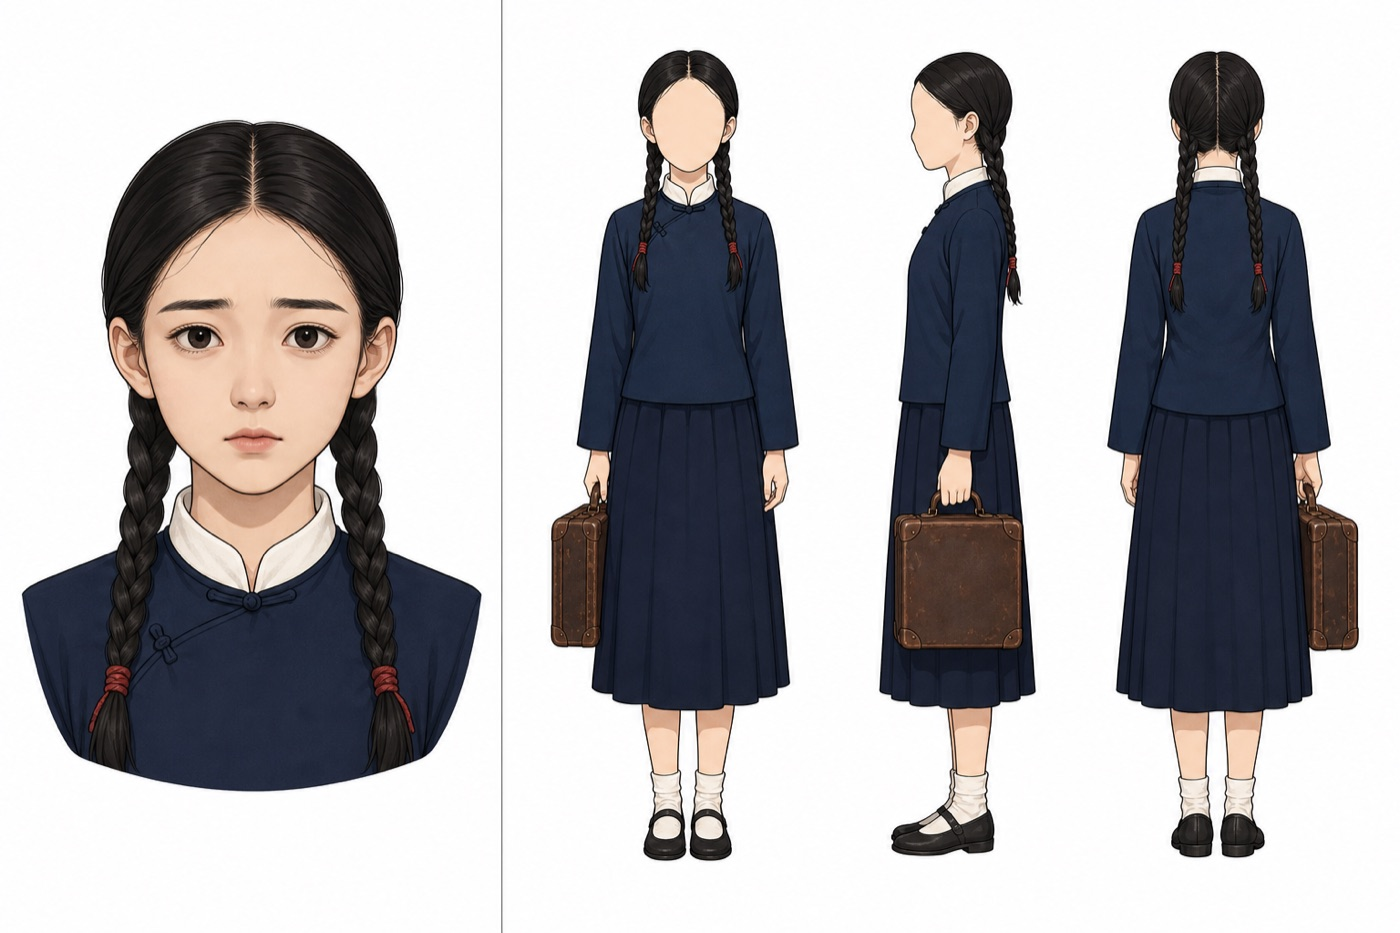
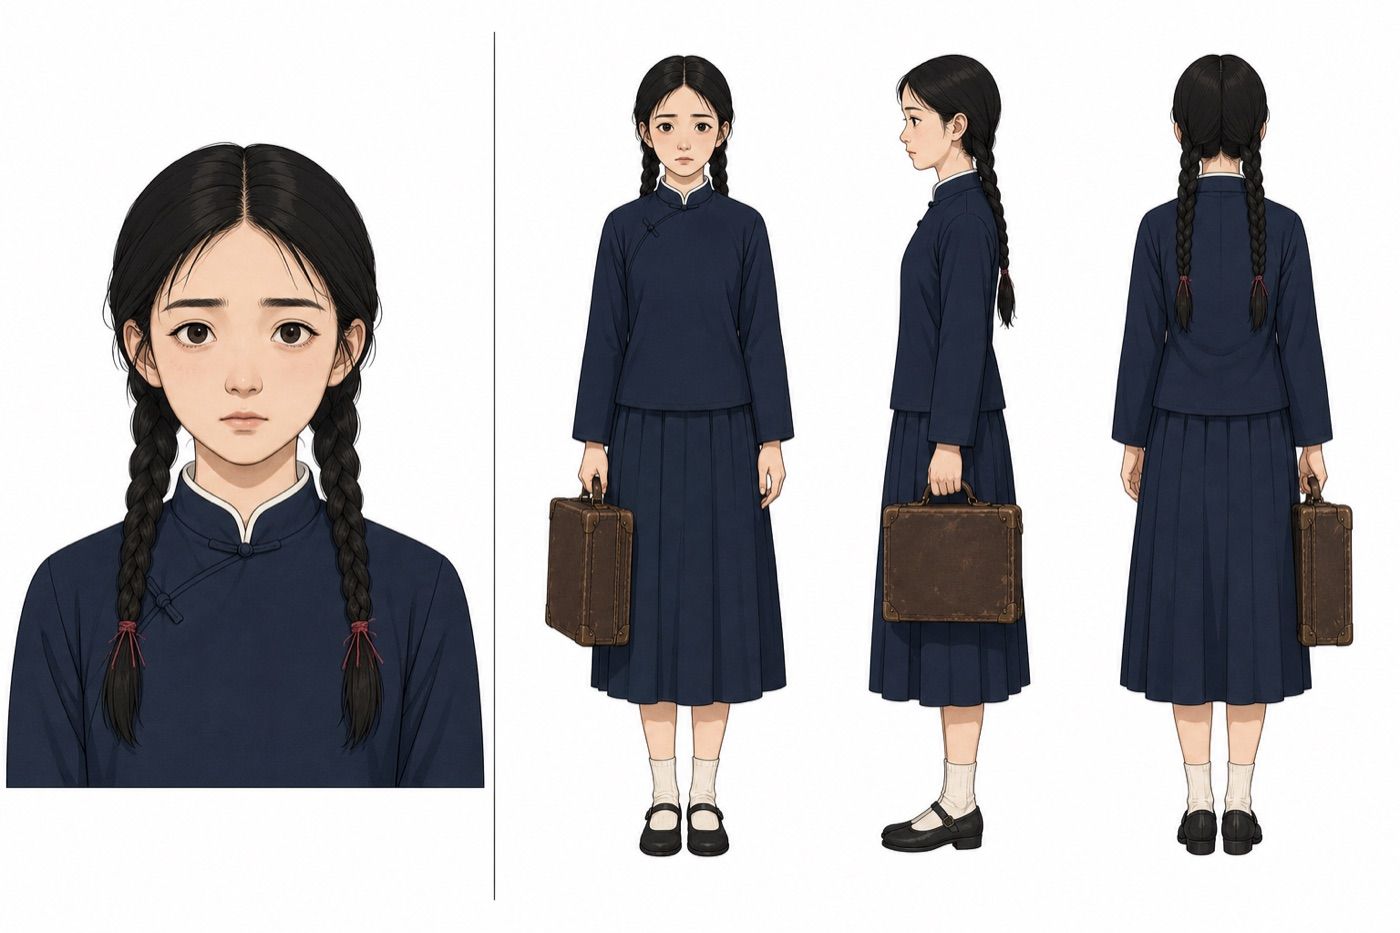
fix(novel-characters): 三视图画脸，半身像肩膀完整
两处调整：

1. 右栏三视图不再留空脸。改成要求面部与左栏半身像一致——同样的五官、
   发型、表情。左栏当面部设计基准，右栏照着画。这样更接近标准设定表，
   也不用担心留空的遵从度问题。
   新风险是「一张图里两个长相」，提示词里显式要求两边一致。

2. 左栏半身像原来两侧肩膀被裁掉、底边是圆角渐隐，看着别扭。提示词里
   显式禁掉：BOTH SHOULDERS ARE FULLY VISIBLE、底边齐平直切。这是模型
   的默认行为，不写死就一定会出。

实测重生成确认：肩膀完整、底边直切、三视图有脸且与半身像同一个人。
自测 130 → 132 项，两条新要求都有断言钉住。

diff --git a/skills/novel-characters/references/profile-pass.md b/skills/novel-characters/references/profile-pass.md
@@ -31,16 +31,16 @@
 
    | 栏 | 宽度 | 内容 |
    | --- | --- | --- |
-   | **左栏** | **约 38%** | **一张半身像**：头肩，正面，居中，像证件照。**脸画全、画细** |
-   | **右栏** | **约 62%** | **全身三视图**：正视 / 侧视 / 背视并排，共用一条地平线，三视身高比例和服装细节完全一致，中性站姿、双臂自然下垂 |
+   | **左栏** | **约 38%** | **一张半身像**：头肩，正面，居中，像证件照。脸画全、画细，这是面部设计的基准。**两侧肩膀要完整**，底边**齐平直切**收口 |
+   | **右栏** | **约 62%** | **全身三视图**：正视 / 侧视 / 背视并排，共用一条地平线，三视身高比例和服装细节完全一致，中性站姿、双臂自然下垂。**脸也要画** |
 
    两栏之间用一条细竖线分隔。整张纯白背景、均匀漫射光、无投影。
 
-   **右栏的脸必须留空**：头部只画发型、发际线和耳朵，**不画眼睛、眉毛、鼻子、嘴**，脸部区域保持平整空白。**只有左栏的半身像显示面部。**
+   **一张图里只能有一个长相。** 提示词里要明确要求三视图的面部与左栏半身像一致——同样的五官、同样的发型、同样的表情。左栏是基准，右栏照着它画。
 
-   这么排的原因：五官在左栏定死一次，右栏专心管剪影、比例和服装。全身三视里同一张脸画三遍，模型很难画一致，留空就绕开了这个问题。
+   **左栏的收口要写死**：模型默认会把两侧肩膀裁掉、底边做成圆角或渐隐，看着很别扭。提示词里要明说 `BOTH SHOULDERS ARE FULLY VISIBLE with clear space on either side` 和 `do not fade, vignette or round off the bottom edge — the portrait ends in a clean straight horizontal cut just below the chest`。
 
-   提示词里必须逐条写明：`LEFT ZONE, occupying about 38% of the canvas width`、`RIGHT ZONE, occupying about 62%`、以及 `Only the LEFT ZONE bust portrait shows the face`。**说反了整张图就废了。**
+   提示词里必须逐条写明：`LEFT ZONE, occupying about 38% of the canvas width`、`RIGHT ZONE, occupying about 62%`、以及 `The faces on all three full-body views are fully drawn and must match the bust portrait exactly`。**比例说反了整张图就废了。**
 
 6. `voice.prompt` 是给 TTS 音色设计引擎的：描述**乐器本身**，不是某一句台词的演绎。性别、听感年龄、音色、音高区间、共鸣、气声、语速、节奏、口音、能量、默认情绪。
 

diff --git a/skills/novel-characters/references/schema.md b/skills/novel-characters/references/schema.md
@@ -49,7 +49,7 @@
     "promptLocal": "角色设定图：约七十岁的中国老船夫……",
     "negativePrompt": "photorealistic, 3d render, young face, ...",
     "tags": ["flat vector", "character sheet", "ink wash palette"],
-    "sheet": "Single character model sheet ... LEFT ZONE, occupying about 38% ... one bust portrait ... RIGHT ZONE, occupying about 62% ... three full-body views ... in the RIGHT ZONE the faces must be left completely blank ..."
+    "sheet": "Single character model sheet ... LEFT ZONE, occupying about 38% ... one bust portrait ... RIGHT ZONE, occupying about 62% ... three full-body views ... faces fully drawn and must match the bust portrait exactly ..."
   },
 
   "voice": {
@@ -82,7 +82,7 @@
 | `image.promptLocal` | string | 本地语言 | 上面那条的译文；`lang=en` 时省略；**同样禁止人名** |
 | `image.negativePrompt` | string | **英文** | 逗号分隔 |
 | `image.tags` | string[] | **英文** | 4–8 个风格标签 |
-| `image.sheet` | string | **英文** | **角色设定图**：左栏约 38% 是证件照式半身像（脸画全），右栏约 62% 是全身三视图（**脸留空**）；**禁止出现人名** |
+| `image.sheet` | string | **英文** | **角色设定图**：左栏约 38% 是证件照式半身像（面部基准），右栏约 62% 是全身三视图（脸也画，**须与左栏一致**）；**禁止出现人名** |
 | `voice.timbre/pitch/pace/accent/emotion/referenceHint` | string | **本地语言** | 最容易写漂的地方，注意 |
 | `voice.prompt` | string | **英文** | 给 TTS 音色设计引擎 |
 | `voice.promptLocal` | string | 本地语言 | 上面那条的译文；`lang=en` 时省略 |
@@ -91,9 +91,10 @@
 
 ## 为什么设定图要左右分栏
 
-- 五官在左栏的半身像里定死一次，右栏专心管剪影、比例和服装
-- 全身三视里同一张脸要画三遍，模型很难画一致；右栏留空就绕开了这个问题
-- 左右比例（38% / 62%）和「只有左栏显示面部」必须写死在提示词里，**说反了整张图就废了**
+- 左栏的半身像当**面部设计基准**，尺寸大、五官画得细，可以直接拿去做表情设计
+- 右栏三视图管剪影、比例、服装，脸照左栏画
+- 左右比例（38% / 62%）必须写死在提示词里，**说反了整张图就废了**
+- 最容易出的问题是**一张图里两个长相**，提示词里要明确要求两边一致
 
 ## 校验
 

diff --git a/skills/novel-characters/README.en.md b/skills/novel-characters/README.en.md
@@ -8,7 +8,7 @@ Feed it a novel or a short story, and get a complete design bible for every char
 - **Profile** — gender, age, standing, appearance, temperament, motivation, arc, relationships, each backed by **verbatim quotes from the source**
 - **Cartoon-design prompts** — bilingual image prompt + negative prompt + style tags, ready for Midjourney / SD / GPT-Image
 - **Voice prompts** — timbre, pitch, pace, accent, emotion, plus a voice-design prompt for Qwen3-TTS / ElevenLabs Voice Design
-- **A character model sheet** — one image: an ID-photo-style bust on the left with the face fully drawn, and a full-body turnaround filling the right ~62% with **the faces deliberately left blank**. White background for clean cut-out, generated through codex's built-in image tool (optional)
+- **A character model sheet** — one image: an ID-photo-style bust on the left (~38%, the reference for the face design) and a full-body turnaround filling the right ~62%. White background for clean cut-out, generated through codex's built-in image tool (optional)
 
 Outputs `cast.json`, a Markdown report, and a self-contained `report.html` you can just double-click.
 
@@ -89,7 +89,7 @@ node scripts/novel-characters.mjs slug "胡二爷"                  # filesystem
 SKILL.md                 the workflow the agent reads
 scripts/
   novel-characters.mjs   chunk / merge / validate / render / slug
-  selftest.mjs           129 assertions, never calls a model
+  selftest.mjs           132 assertions, never calls a model
 references/
   roster-pass.md         pass 1: scanning for characters
   profile-pass.md        pass 2: building a character sheet (8 hard rules)
@@ -110,6 +110,6 @@ In `examples/渡口.txt` the peddler is only ever referred to by a nickname and 
 node scripts/selftest.mjs
 ```
 
-129 assertions across chunking, alias merging, localization, validation, and rendering. No model calls, no quota, runs in about a second. Run it before anything else after touching the scripts.
+132 assertions across chunking, alias merging, localization, validation, and rendering. No model calls, no quota, runs in about a second. Run it before anything else after touching the scripts.
 
 **Only tested on macOS with Node 24.** There is no platform-specific code, so Linux and older Node releases should be fine, but that is **unverified** — the repository's CI (`ci/selftest.yml`) is not enabled yet.

diff --git a/skills/novel-characters/references/sheet.md b/skills/novel-characters/references/sheet.md
@@ -13,7 +13,7 @@
 │              │                              │
 │   半身像      │    正视    侧视    背视        │
 │  （证件照式）  │                              │
-│   脸画全       │      三个全身像，脸留空        │
+│   面部基准     │        三个全身像             │
 │              │                              │
 │   ~38%       │           ~62%               │
 └──────────────┴──────────────────────────────┘
@@ -21,7 +21,7 @@
 
 提示词字段 `image.sheet`，落到 `./images/<slug>-sheet.png`。
 
-左栏定死五官，右栏专心管剪影、比例和服装。全身三视里同一张脸画三遍模型很难画一致，右栏留空就绕开了。
+左栏的半身像是**面部设计的基准**，右栏三视图的脸照着它画。提示词里要明确要求两边一致，否则一张图里会出现两个长相。
 
 ---
 
@@ -125,7 +125,15 @@ env -u NODE_OPTIONS "$CODEX" exec --skip-git-repo-check --sandbox workspace-writ
 
 ## 背景：白底
 
-设定图一律**纯白背景**。理由有三个：抠图干净、印出来是设定表该有的样子、在深色报告里也能读。`image.sheet` 的提示词里已经写死了 `plain pure white background`，不要改成灰底或场景背景。
+设定图一律**纯白背景**。理由有三个：抠图干净、印出来是设定表该有的样子、在深色报告里也能读。
+
+### 左栏的收口 ⚠
+
+模型默认会把半身像的两侧肩膀裁掉、底边做成圆角或渐隐晕影，看着很别扭。提示词里必须显式禁掉：肩膀完整、两侧留空、底边齐平直切。这条不写就一定会出问题。
+
+### 面部一致性 ⚠
+
+一张图里出现两个长相是这个版面最容易出的问题——左栏画一个人、右栏画另一个人。提示词里必须写死 `must match the bust portrait exactly — same features, same hairstyle, same expression`。拿到图先扫一眼两边是不是同一个人，不是就重生成。`image.sheet` 的提示词里已经写死了 `plain pure white background`，不要改成灰底或场景背景。
 
 ### 想要真透明背景
 

diff --git a/CHANGELOG.md b/CHANGELOG.md
@@ -14,12 +14,14 @@
 **出图改成左右分栏的单张设定图**
 
 - `image.face` + `image.turnaround` 合并为 **`image.sheet`**，一个角色一张图
-- 一张横构图内部分两栏：**左栏约 38%** 是证件照式半身像（脸画全、画细），
-  **右栏约 62%** 是全身三视图（正/侧/背，**脸留空**）
-- 左栏定死五官，右栏专心管剪影、比例和服装。全身三视里同一张脸画三遍模型
-  很难画一致，右栏留空绕开了这个问题
-- 比例和「只有左栏显示面部」必须写死在提示词里，说反了整张图就废
-- 实测左右分栏、比例、右栏留空脸全部达标
+- 一张横构图内部分两栏：**左栏约 38%** 是证件照式半身像（面部设计基准），
+  **右栏约 62%** 是全身三视图（正/侧/背）
+- 左栏尺寸大、五官画得细，可以直接拿去做表情设计；右栏管剪影、比例、服装，
+  脸照左栏画
+- 比例必须写死在提示词里，说反了整张图就废
+- 最容易出的问题是**一张图里两个长相**，提示词里明确要求两边一致
+- 左栏还要显式禁掉两个默认行为：**裁掉两侧肩膀**、**底边圆角渐隐**。
+  不写就一定会出，看着很别扭
 
 **破坏性变更**
 
@@ -29,7 +31,7 @@
 - 出图落盘从 `<slug>-turnaround.png` 改为 `<slug>-sheet.png`
 - `references/turnaround.md` 更名 `references/sheet.md`
 
-自测 73 → 129 项。
+自测 73 → 132 项。
 
 ## novel-characters 1.0.0 — 2026-08-06
 
